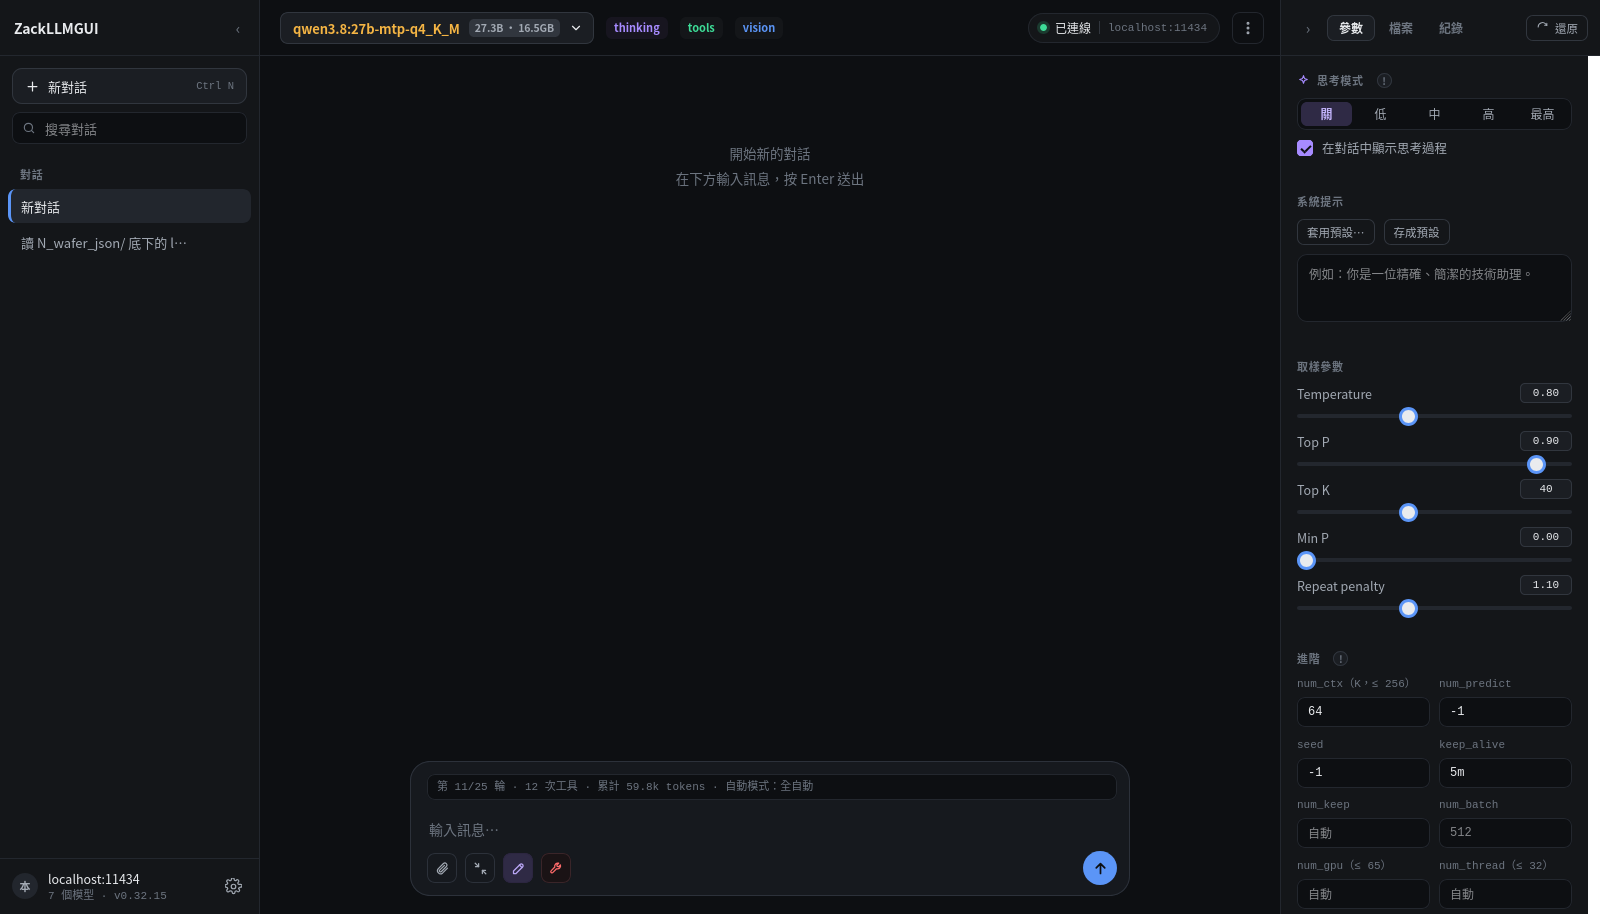
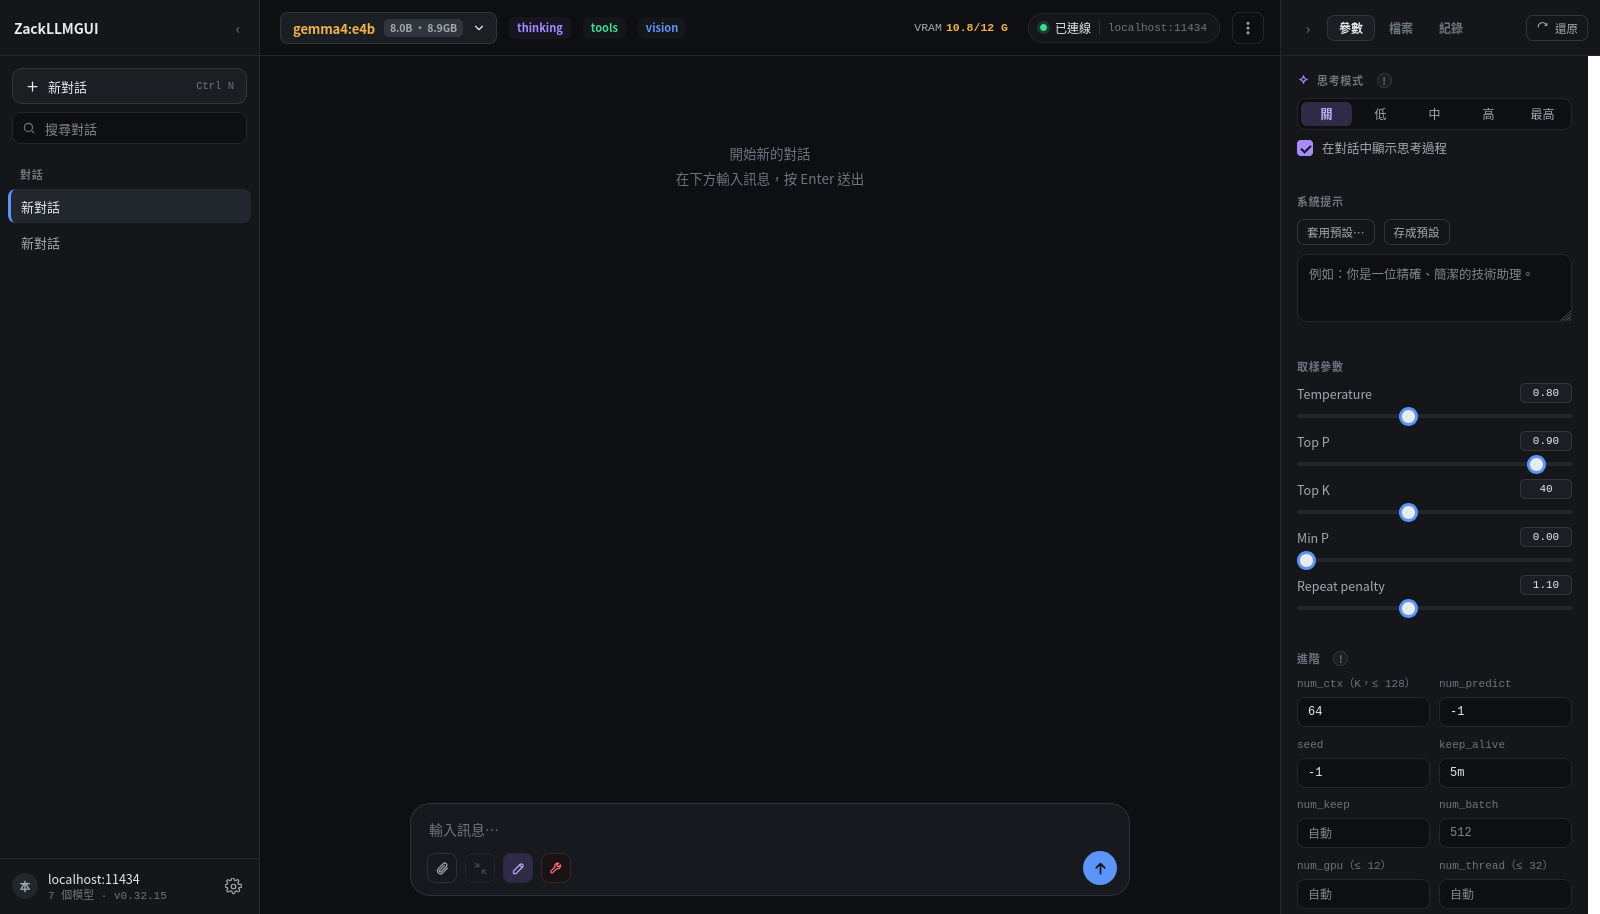
重截主畫面與功能選單截圖，示範資料改成產生的
功能選單從六列變七列（多了驗證指令、子代理模型，允許規則改成有規則才出現），
頂上也多了 VRAM 用量 —— 舊圖上這些都看不到，等於文件在講一個不存在的介面。

示範資料原本是實際產線的標注檔，重截時已經沒有留著。與其去湊一份「看起來像產線」的
東西，不如直接產生：一樣 12 個 labelme 檔、一樣 380 個 shapes，模型看到的格式與總數
完全相同，而檔名不再帶任何產線資訊。

agent-run.png 與 files.png 這次沒有換：兩張都得等模型真的再跑完一輪才有東西可截，
而這台的 VRAM 只有 12G，qwen3.8:27b 溢出到 CPU 之後掉到 1 tok/s，一輪跑不完。
把這件事跟「按停止不會讓 Ollama 那端跟著停」一起寫進 docs/shots/README.md，
下次重截不必再踩一遍。

Changed region(s): [[0.1875, 0.0, 0.4375, 0.0613], [0.2812, 0.8271, 0.5312, 0.8884], [0.0, 0.2451, 0.0938, 0.2757]]

diff --git a/docs/shots/README.md b/docs/shots/README.md
@@ -8,7 +8,11 @@
 | `main.png` | 主畫面：模型能力膠囊、思考模式五段、取樣與進階參數 | 1600×1000 |
 | `agent-run.png` | 一輪全自動跑完：12 次工具、`5 passed`、答案 380 片 | 1600×1340 |
 | `files.png` | 檔案分頁：工作區的檔案樹，點開直接看內容 | 1600×1000 |
-| `tools.png` | 功能與工具：本機工具、連網、沙盒（bwrap）、計畫模式、自動模式、允許規則 | 1600×1000 |
+| `tools.png` | 功能與工具：本機工具、連網、沙盒（bwrap）、計畫模式、自動模式、驗證指令、子代理模型 | 1600×1000 |
+
+`main.png` 與 `tools.png` 是 2026-08-28 重截的 —— 功能選單從六列變七列（多了驗證指令、
+子代理模型，允許規則改成有規則才出現），頂上也多了 VRAM 用量。
+`agent-run.png` 與 `files.png` 還是第一次那一輪的，要重截得先讓模型真的再跑一次，見下面。
 
 
 ## 路徑一律換成假的
@@ -17,7 +21,9 @@
 走一遍所有文字節點與 `title`／`placeholder`／`value`，把真實路徑換成 `/home/dev/…`，
 再按快門。改的是畫面不是資料，`serve.py` 那邊完全沒動。
 
-示範資料的檔名也先換成 `wafer_001.json` … `wafer_012.json` —— 原本那批是實際產線的檔名。
+示範資料本身是**產生出來的**：`wafer_001.json` … `wafer_012.json`，12 個 labelme 檔、
+合計 380 個 `shapes`。第一版用的是實際產線的檔案，重截時沒有留著，就照同樣的格式與總數重做一份 ——
+模型看到的東西一模一樣，而檔名不再帶任何產線資訊。
 
 截完記得確認一次：`document.body.textContent.indexOf('<你的使用者名稱>')` 要回 `-1`。
 
@@ -33,3 +39,12 @@ python serve.py --no-browser --port 8899 --workspace <工作區> --sandbox
 
 `agent-run.png` 那張：視窗拉到 1340 高（不然聊天區只剩 574px），把工具卡片全部收折、
 只留 `run_tests` 攤開，再把 `#scroll` 捲到底 —— 一張圖要同時看得到「跑了什麼」跟「結果」。
+
+### 模型要挑塞得進 VRAM 的
+
+`agent-run.png` 跟 `files.png` 得等模型真的跑完一輪才有東西可截，所以**先確認選的模型
+整包進得了顯示卡**。溢出到 CPU 的話速度會掉到 1 tok/s 上下，一輪跑不完。
+
+還有一件事：Ollama 預設只有一個槽位，而**網頁按停止不會讓那一端跟著停** —— 前端 abort
+了、`serve.py` 整支砍掉、上游 socket 斷了，`llama-server` 照樣生到 EOS 為止，
+期間所有請求都排在後面。要立刻拿回槽位只能 `sudo systemctl restart ollama`。
